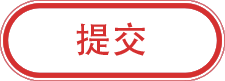
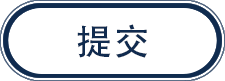
modify barrage1 and phone

Changed region(s): [[0.0, 0.0, 1.0, 1.0], [0.3111, 0.2716, 0.6533, 0.716]]

diff --git a/public/html/barrage/barrage1.html b/public/html/barrage/barrage1.html
@@ -9,7 +9,7 @@
     <link rel="stylesheet" href="css/barrage.css">
     <style>
         body{
-            background: url(images/barrage1.png) no-repeat center center;
+            background: #000;
             background-size: 100% 100%;
         }
     </style>
@@ -136,13 +136,14 @@
             '6666666666'
         ]
 
-        Echo.channel('Zl')
-            .listen('ZlBarrage', (e) => {
-                var info1 = {
-                    'info': e.barrage
-                }
-                infos.push(info1)
-            });
+        // Echo.channel('Zl')
+        //     .listen('ZlBarrage', (e) => {
+        //         var info1 = {
+        //             'info': e.barrage
+        //         }
+        //         infos.push(info1);
+        //         msg.push(info1);
+        //     });
         
         setInterval(function(){
             if(infos.length < 30){
@@ -154,7 +155,8 @@
             }
             add_barrager(infos[0]);
             infos.shift();
-        },500);
+            //159行表示每多少毫秒出现一条弹幕
+        },300);
 
 
         //下面的不要动

diff --git a/public/html/barrage/zhou/css/index.css b/public/html/barrage/zhou/css/index.css
@@ -1,7 +1,7 @@
 .bgy{
     width: 640px;
     height: 1040px;
-    background: url("../img/bg.png") no-repeat center;
+    background: url("../img/bg.jpg") no-repeat center;
     background-size: cover;
 }
 form{
@@ -10,17 +10,18 @@ form{
     left:0;
     right: 0;
     margin:auto;
-    top:400px;
+    top:300px;
     text-align: center;
 }
-.info_text{
+.info_text, .info_phone{
+    margin-bottom: 100px;
     width: 400px;
     border: none;
     height: 80px;
     line-height: 80px;
-    border:4px solid #d53030;
+    border:4px solid #102c4f;
     font-size: 40px;
-    color: #d53030;
+    color: #102c4f;
     box-sizing: border-box;
 }
 label img{
@@ -48,15 +49,15 @@ label img{
     display: none;
 }
 ::-webkit-input-placeholder { /* WebKit browsers */
-    color: #d53030;
+    color: #102c4f;
 
 }
 :-moz-placeholder { /* Mozilla Firefox 4 to 18 */
-    color: #d53030;
+    color: #102c4f;
 }
 ::-moz-placeholder { /* Mozilla Firefox 19+ */
-    color: #d53030;
+    color: #102c4f;
 }
 :-ms-input-placeholder { /* Internet Explorer 10+ */
-    color: #d53030;
+    color: #102c4f;
 }

diff --git a/public/html/barrage/js/jquery.barrager.js b/public/html/barrage/js/jquery.barrager.js
@@ -16,7 +16,7 @@
 		var id = '#' + barrager_id;
 		var div_barrager = $("<div class='barrage' id='" + barrager_id + "'></div>").appendTo($(this));
 		var window_height = $('body').height() - 60;
-		var top = (barrage.top == 0) ? Math.floor(Math.random() * (window_height / 3)) : barrage.top;
+		var top = (barrage.top == 0) ? Math.floor(Math.random() * window_height) : barrage.top;
 		div_barrager.css("top", top + "px");
 		div_barrager_box = $("<div class='barrage_box cl'></div>").appendTo(div_barrager);
 		if(barrage.img){
@@ -35,7 +35,9 @@
 		var i = -500;
 		// div_barrager.css('right', i);
 		// var looper = setInterval(barrager, barrage.speed);
-		$(id).animate({left: "-1100px"},20000,function(){
+
+		//第二个参数表示多少毫秒走完全程屏幕
+		$(id).animate({left: "-2100px"},20000,function(){
 			$(id).remove();
 		})
 		function barrager() {

diff --git a/public/html/barrage/css/barrage.css b/public/html/barrage/css/barrage.css
@@ -1,5 +1,4 @@
 body{
-    background-color: transparent!important;
     position: relative;
     overflow: hidden;
 }
@@ -7,13 +6,13 @@ body{
     background-color: transparent!important;
     position: absolute;
     top:0px;
-    right:-1100px;
+    right:-2100px;
     display: inline-block;
     z-index: 99999;
-    width: 1000px;
+    width: 2000px;
 }
 .barrage_box{
-    background-color: rgba(0,0,0,0.5)!important;
+    background-color: rgba(0,0,0,0)!important;
     padding-right: 20px;
     height: 60px;
     display: inline-block;
@@ -40,7 +39,7 @@ body{
     margin-right: 2px;
     font-family: '微软雅黑';
     font-weight: bold;
-    font-size: 24px;
+    font-size: 64px;
     color: #fff;
     line-height: 60px;
     margin-left: 18px;

diff --git a/resources/views/barrage/barrageSubmit.blade.php b/resources/views/barrage/barrageSubmit.blade.php
@@ -14,6 +14,7 @@
     <form action="{{ url('barrage/barrageSubmit') }}" method="post">
         {!! csrf_field() !!}
         <input class="info_text" type="text" name="barrage" placeholder="请输入弹幕内容">
+        <input class="info_phone" type="phone"  name="phone" placeholder="请输入手机号">
         <label for="submit">
             <input id="submit" type="submit" style="display: none">
             <img src="{{ asset('html/barrage/zhou/img/btn_sub.png') }}" alt="">
@@ -37,15 +38,24 @@
     });
     var arrMg = str.split('\n');
     $('form').submit(function () {
-        if ($('.info_text').val() == '') {
+        if($('.info_text').val() == '' && $('.info_phone').val() == ''){
+            alert('内容不能为空');
+            return false;
+        }else if($('.info_text').val() == ''){
             alert('弹幕不能为空');
             return false;
-        }else if ($('.info_text').val().length > 18) {
+        }else if($('.info_phone').val() == ''){
+            alert('手机号不能为空');
+            return false;
+        }else if($('.info_text').val().length > 18){
             alert('弹幕字符不能大于18');
             $('.info_text').val('');
             return false;
         }else if(filter($('.info_text').val())){
-            alert('弹幕不能有敏感词')
+            alert('弹幕不能有敏感词');
+            return false;
+        }else if(!regPhone.test($('.info_phone').val())){
+            alert('请输入正确的手机号');
             return false;
         }
     })
